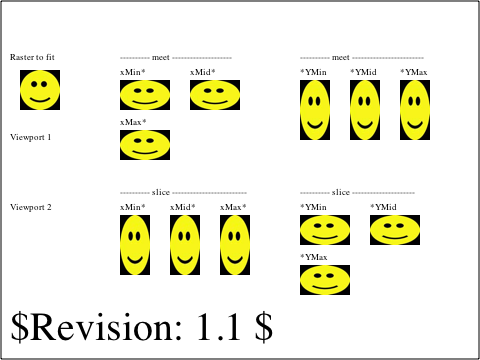
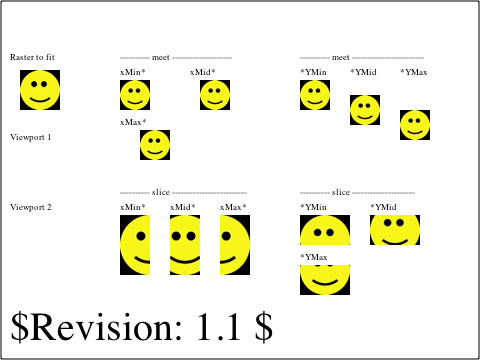
2006-03-01  Alexander Kellett  <lypanov@kde.org>
Reviewed by Maciej.

        - fix http://bugzilla.opendarwin.org/show_bug.cgi?id=5966

        Fixes already existing test:
          svg/W3C-SVG-1.1/coords-viewattr-02-b.svg

        * kcanvas/RenderSVGImage.cpp:
        (WebCore::RenderSVGImage::adjustRectsForAspectRatio):
        (WebCore::RenderSVGImage::paint):
        * kcanvas/RenderSVGImage.h:

2006-03-01  Alexander Kellett  <lypanov@kde.org>

        - http://bugzilla.opendarwin.org/show_bug.cgi?id=5966
          Update expected results

        * svg/W3C-SVG-1.1/coords-viewattr-02-b-expected.checksum:
        * svg/W3C-SVG-1.1/coords-viewattr-02-b-expected.png:
        * svg/W3C-SVG-1.1/coords-viewattr-02-b-expected.txt:

Identifier: 11051@main
git-svn-id: https://svn.webkit.org/repository/webkit/trunk@13073 268f45cc-cd09-0410-ab3c-d52691b4dbfc

diff --git a/WebCore/kcanvas/RenderSVGImage.cpp b/WebCore/kcanvas/RenderSVGImage.cpp
@@ -26,6 +26,7 @@
 
 #include "GraphicsContext.h"
 #include "KCanvasMaskerQuartz.h"
+#include "SVGAnimatedPreserveAspectRatioImpl.h"
 #include "KCanvasRenderingStyle.h"
 #include "KCanvasResourcesQuartz.h"
 #include "KRenderingDevice.h"
@@ -33,6 +34,10 @@
 #include "SVGImageElementImpl.h"
 #include <kcanvas/KCanvas.h>
 #include <kdom/core/AttrImpl.h>
+
+#include "SVGImageElementImpl.h"
+
+#include "ksvg.h"
 
 namespace WebCore {
 
@@ -43,6 +48,81 @@ RenderSVGImage::RenderSVGImage(SVGImageElementImpl *impl)
 
 RenderSVGImage::~RenderSVGImage()
 {
+}
+
+void RenderSVGImage::adjustRectsForAspectRatio(FloatRect& destRect, FloatRect& srcRect, SVGPreserveAspectRatioImpl *aspectRatio)
+{
+    float origDestWidth = destRect.width();
+    float origDestHeight = destRect.height();
+    if (aspectRatio->meetOrSlice() == SVG_MEETORSLICE_MEET) {
+        float widthToHeightMultiplier = srcRect.height() / srcRect.width();
+        if (origDestHeight > (origDestWidth * widthToHeightMultiplier)) {
+            destRect.setHeight(origDestWidth * widthToHeightMultiplier);
+            switch(aspectRatio->align()) {
+                case SVG_PRESERVEASPECTRATIO_XMINYMID:
+                case SVG_PRESERVEASPECTRATIO_XMIDYMID:
+                case SVG_PRESERVEASPECTRATIO_XMAXYMID:
+                    destRect.setY(origDestHeight / 2 - destRect.height() / 2);
+                    break;
+                case SVG_PRESERVEASPECTRATIO_XMINYMAX:
+                case SVG_PRESERVEASPECTRATIO_XMIDYMAX:
+                case SVG_PRESERVEASPECTRATIO_XMAXYMAX:
+                    destRect.setY(origDestHeight - destRect.height());
+                    break;
+            }
+        }
+        if (origDestWidth > (origDestHeight / widthToHeightMultiplier)) {
+            destRect.setWidth(origDestHeight / widthToHeightMultiplier);
+            switch(aspectRatio->align()) {
+                case SVG_PRESERVEASPECTRATIO_XMIDYMIN:
+                case SVG_PRESERVEASPECTRATIO_XMIDYMID:
+                case SVG_PRESERVEASPECTRATIO_XMIDYMAX:
+                    destRect.setX(origDestWidth / 2 - destRect.width() / 2);
+                    break;
+                case SVG_PRESERVEASPECTRATIO_XMAXYMIN:
+                case SVG_PRESERVEASPECTRATIO_XMAXYMID:
+                case SVG_PRESERVEASPECTRATIO_XMAXYMAX:
+                    destRect.setX(origDestWidth - destRect.width());
+                    break;
+            }
+        }
+    } else if (aspectRatio->meetOrSlice() == SVG_MEETORSLICE_SLICE) {
+        float widthToHeightMultiplier = srcRect.height() / srcRect.width();
+        // if the destination height is less than the height of the image we'll be drawing
+        if (origDestHeight < (origDestWidth * widthToHeightMultiplier)) {
+            float destToSrcMultiplier = srcRect.width() / destRect.width();
+            srcRect.setHeight(destRect.height() * destToSrcMultiplier);
+            switch(aspectRatio->align()) {
+                case SVG_PRESERVEASPECTRATIO_XMINYMID:
+                case SVG_PRESERVEASPECTRATIO_XMIDYMID:
+                case SVG_PRESERVEASPECTRATIO_XMAXYMID:
+                    srcRect.setY(image()->height() / 2 - srcRect.height() / 2);
+                    break;
+                case SVG_PRESERVEASPECTRATIO_XMINYMAX:
+                case SVG_PRESERVEASPECTRATIO_XMIDYMAX:
+                case SVG_PRESERVEASPECTRATIO_XMAXYMAX:
+                    srcRect.setY(image()->height() - srcRect.height());
+                    break;
+            }
+        }
+        // if the destination width is less than the width of the image we'll be drawing
+        if (origDestWidth < (origDestHeight / widthToHeightMultiplier)) {
+            float destToSrcMultiplier = srcRect.height() / destRect.height();
+            srcRect.setWidth(destRect.width() * destToSrcMultiplier);
+            switch(aspectRatio->align()) {
+                case SVG_PRESERVEASPECTRATIO_XMIDYMIN:
+                case SVG_PRESERVEASPECTRATIO_XMIDYMID:
+                case SVG_PRESERVEASPECTRATIO_XMIDYMAX:
+                    srcRect.setX(image()->width() / 2 - srcRect.width() / 2);
+                    break;
+                case SVG_PRESERVEASPECTRATIO_XMAXYMIN:
+                case SVG_PRESERVEASPECTRATIO_XMAXYMID:
+                case SVG_PRESERVEASPECTRATIO_XMAXYMAX:
+                    srcRect.setX(image()->width() - srcRect.width());
+                    break;
+            }
+        }
+    }
 }
 
 void RenderSVGImage::paint(PaintInfo& paintInfo, int parentX, int parentY)
@@ -66,7 +146,7 @@ void RenderSVGImage::paint(PaintInfo& paintInfo, int parentX, int parentY)
     translateForAttributes();
     
     FloatRect boundingBox = relativeBBox(true);
-    const KSVG::SVGRenderStyle *svgStyle = style()->svgStyle();
+    const SVGRenderStyle *svgStyle = style()->svgStyle();
             
     if (KCanvasClipper *clipper = getClipperById(document(), svgStyle->clipPath().mid(1)))
         clipper->applyClip(boundingBox);
@@ -78,11 +158,27 @@ void RenderSVGImage::paint(PaintInfo& paintInfo, int parentX, int parentY)
     if (filter)
         filter->prepareFilter(boundingBox);
     
-    RenderImage::paint(paintInfo, 0, 0);
-    
+    int x = 0, y = 0;
+    if (!shouldPaint(paintInfo, x, y))
+        return;
+        
+    SVGImageElementImpl *imageElt = static_cast<SVGImageElementImpl *>(node());
+        
+    if (imageElt->preserveAspectRatio()->baseVal()->align() == SVG_PRESERVEASPECTRATIO_NONE)
+        RenderImage::paint(paintInfo, 0, 0);
+    else {
+        FloatRect destRect(m_x, m_y, contentWidth(), contentHeight());
+        FloatRect srcRect(0, 0, image()->width(), image()->height());
+        adjustRectsForAspectRatio(destRect, srcRect, imageElt->preserveAspectRatio()->baseVal());
+        paintInfo.p->drawFloatImage(image(),
+                                    destRect.x(), destRect.y(), destRect.width(), destRect.height(), 
+                                    srcRect.x(), srcRect.y(), srcRect.width(), srcRect.height(), 
+                                    Image::CompositeSourceOver);
+    }
+
     if (filter)
         filter->applyFilter(boundingBox);
-
+    
     // restore drawing state
     if (shouldPopContext) {
         device->popContext();

diff --git a/WebCore/kcanvas/RenderSVGImage.h b/WebCore/kcanvas/RenderSVGImage.h
@@ -30,6 +30,7 @@
 namespace WebCore
 {
     class SVGImageElementImpl;
+    class SVGPreserveAspectRatioImpl;
     class RenderSVGImage : public RenderImage {
     public:
         RenderSVGImage(SVGImageElementImpl *impl);
@@ -42,7 +43,7 @@ namespace WebCore
         virtual IntRect getAbsoluteRepaintRect();
         
         virtual void imageChanged(CachedImage*);
-        
+        void adjustRectsForAspectRatio(FloatRect& destRect, FloatRect& srcRect, SVGPreserveAspectRatioImpl *aspectRatio);
         virtual void paint(PaintInfo& paintInfo, int parentX, int parentY);
     private:
         void translateForAttributes();
